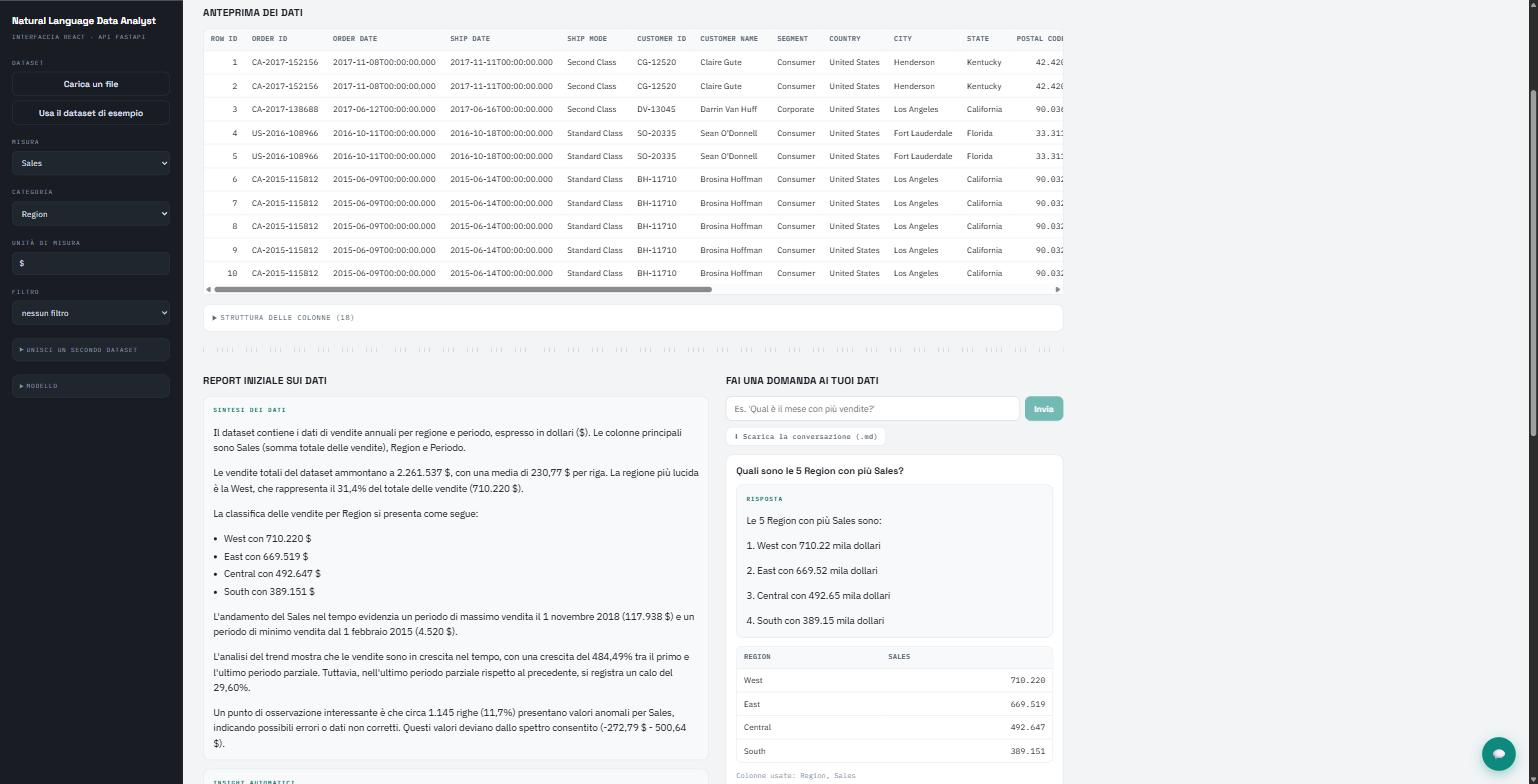
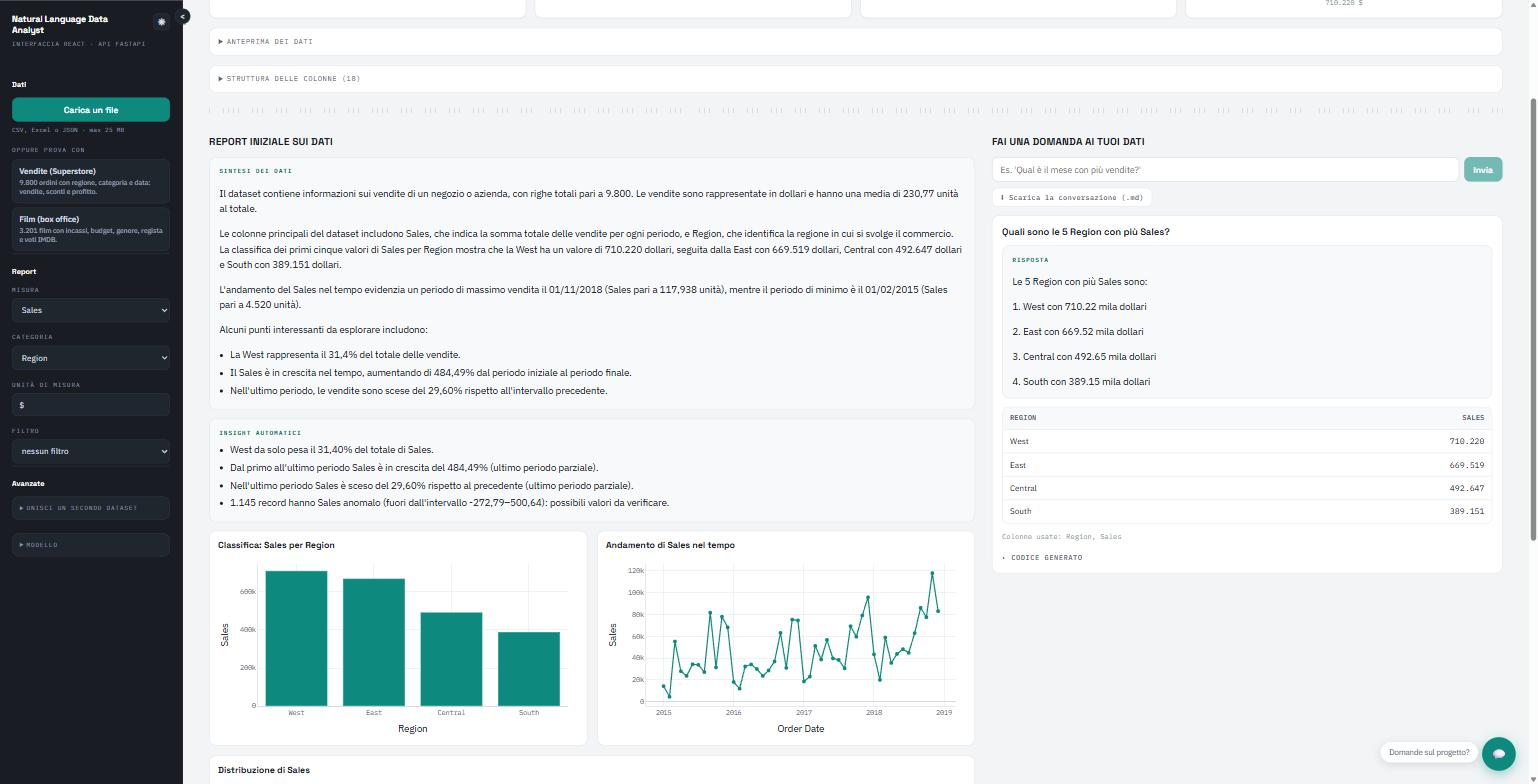
feat(ui): la barra laterale diventa leggibile
Era un elenco continuo di campi identici: per trovare "Categoria" bisognava
leggerli tutti. Ora tre gruppi con un titolo — Dati, Report, Avanzate — e una
riga che separa i GRUPPI, non ogni singolo campo.

"Carica un file" e' l'azione principale e adesso si vede che lo e': prima erano
tre pulsanti identici, e caricare i propri dati — il motivo per cui l'app esiste
— si leggeva come una delle tre opzioni di prova. I due esempi portano la loro
descrizione: "Film (box office)" da solo non dice se vale la pena aprirlo.

Screenshot del README rifatti: mostravano l'interfaccia di prima.

diff --git a/frontend/src/App.tsx b/frontend/src/App.tsx
@@ -116,42 +116,57 @@ export default function App() {
           <Tema />
         </div>
 
-        <span className="etichetta">Dataset</span>
-        <input
-          ref={inputFile}
-          type="file"
-          accept=".csv,.xlsx,.xls,.json"
-          style={{ display: "none" }}
-          onChange={(e) => {
-            const f = e.target.files?.[0];
-            if (f) void accogli(api.caricaFile(f));
-          }}
-        />
-        <button
-          className="secondario"
-          onClick={() => inputFile.current?.click()}
-          disabled={caricamento}
-        >
-          Carica un file
-        </button>
-        {/* Un pulsante per dataset: l'elenco arriva da `/config` e riflette i
-            file DAVVERO presenti, quindi non promette un esempio che manca.
-            Con uno solo si legge come prima; con due diventa una scelta. */}
-        {(config?.demo_datasets ?? []).map((d) => (
+        {/* I controlli stanno in GRUPPI: caricare un file e scegliere la misura
+            sono decisioni di natura diversa, e un elenco piatto di campi uguali
+            costringe a leggerli tutti per trovare quello che serve. */}
+        <section className="rail-gruppo">
+          <h2>Dati</h2>
+
+          <input
+            ref={inputFile}
+            type="file"
+            accept=".csv,.xlsx,.xls,.json"
+            style={{ display: "none" }}
+            onChange={(e) => {
+              const f = e.target.files?.[0];
+              if (f) void accogli(api.caricaFile(f));
+            }}
+          />
+          {/* L'azione principale si vede che lo e': prima erano tre pulsanti
+              identici, e "carica i TUOI dati" — il motivo per cui l'app esiste —
+              si leggeva come una delle tre opzioni di prova. */}
           <button
-            key={d.name}
-            className="secondario"
-            style={{ marginTop: 8 }}
-            onClick={() => void accogli(api.caricaEsempio(d.name))}
+            className="primario"
+            onClick={() => inputFile.current?.click()}
             disabled={caricamento}
-            title={d.description}
           >
-            {d.label}
+            Carica un file
           </button>
-        ))}
+          <p className="nota-campo">CSV, Excel o JSON · max 25 MB</p>
+
+          {/* L'elenco arriva da `/config` e riflette i file DAVVERO presenti,
+              quindi non promette un esempio che manca. */}
+          {(config?.demo_datasets ?? []).length > 0 && (
+            <>
+              <span className="etichetta">oppure prova con</span>
+              {(config?.demo_datasets ?? []).map((d) => (
+                <button
+                  key={d.name}
+                  className="esempio-dataset"
+                  onClick={() => void accogli(api.caricaEsempio(d.name))}
+                  disabled={caricamento}
+                >
+                  <strong>{d.label}</strong>
+                  <span>{d.description}</span>
+                </button>
+              ))}
+            </>
+          )}
+        </section>
 
         {dataset && (
-          <>
+          <section className="rail-gruppo">
+            <h2>Report</h2>
             <span className="etichetta">Misura</span>
             <select value={misura} onChange={(e) => setMisura(e.target.value)}>
               {dataset.measures.length === 0 && (
@@ -192,17 +207,22 @@ export default function App() {
               onCambia={setFiltro}
             />
 
-            {/* Stessa `key`: unito un file, il pannello riparte pulito invece
-                di conservare le chiavi del dataset precedente. */}
+          </section>
+        )}
+
+        <section className="rail-gruppo">
+          <h2>Avanzate</h2>
+          {dataset && (
+            /* Stessa `key`: unito un file, il pannello riparte pulito invece di
+               conservare le chiavi del dataset precedente. */
             <Unione
               key={`unione-${dataset.dataset_id}`}
               dataset={dataset}
               onUnito={(nuovo) => void accogli(Promise.resolve(nuovo))}
             />
-          </>
-        )}
-
-        <Modello config={config} motore={motore} onCambia={setMotore} />
+          )}
+          <Modello config={config} motore={motore} onCambia={setMotore} />
+        </section>
       </aside>
 
       <main className="spazio-lavoro">
